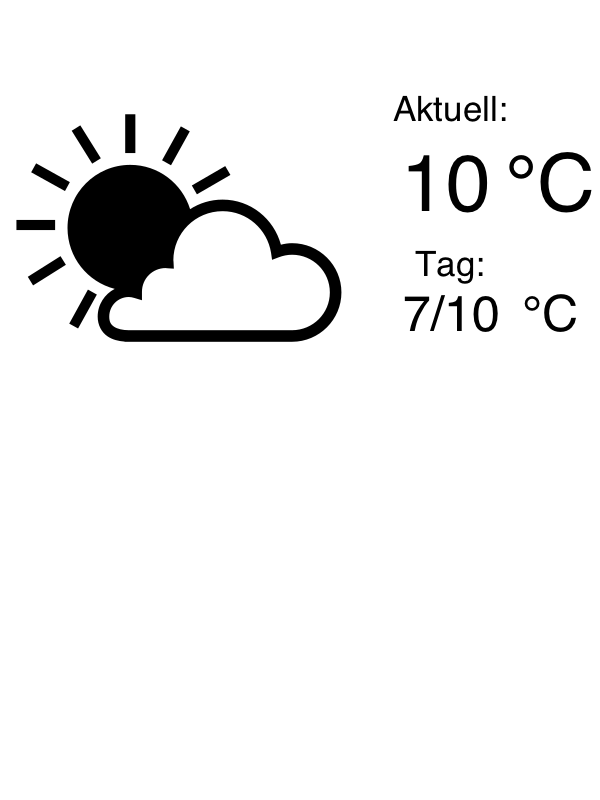
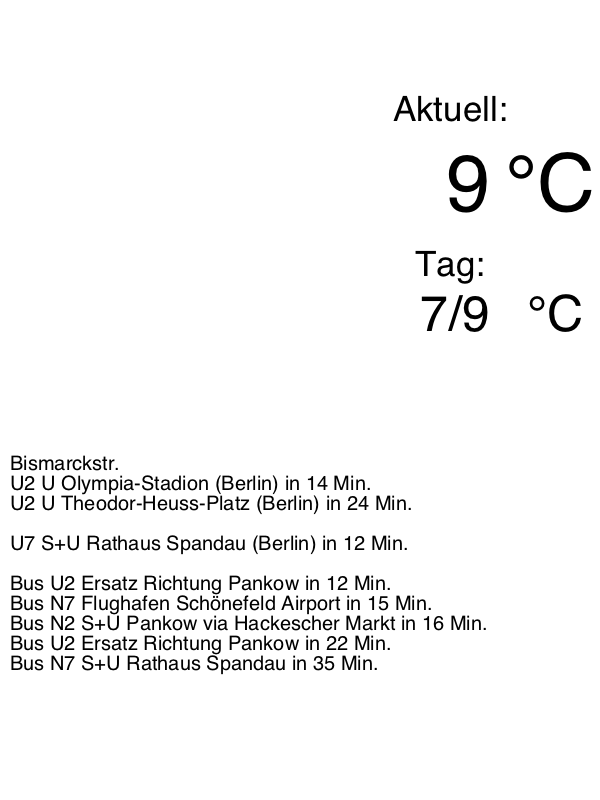
Added Subway departures.

diff --git a/fetch_weather.py b/fetch_weather.py
@@ -16,6 +16,45 @@ def getJSON(url):
     req = urlopen(url).read()
     return json.loads(req)
 
+class Departure:
+    def __init__(self, line, end, remaining):
+        self.line = line
+        self.end = end
+        self.remaining = remaining
+    def str(self):
+        return self.line + " " + self.end + " in " + str(self.remaining / 60) + " Min."
+
+def getDepartures(departures, line, end, min_time, max_time, max_list_length):
+    dep_list = []
+    for item in departures:
+        if len(dep_list) < max_list_length:
+            if (line == item.line) and (item.end in end) and (min_time <= (item.remaining / 60)) and ((item.remaining / 60) <= max_time):
+                dep_list.append(item)
+    return dep_list  
+
+def getDeparturesExcludedByLine(departures, lines, min_time, max_time, max_list_length):
+    dep_list = []
+    for item in departures:
+        if len(dep_list) < max_list_length:
+            if (item.line not in lines) and (min_time <= (item.remaining / 60)) and ((item.remaining / 60) <= max_time):
+                dep_list.append(item)
+    return dep_list 
+
+def getTable(departures):
+    table = ""
+    for item in departures:
+        table += "<tspan x=\"10\" dy=\"1em\">" + item.str() + "</tspan>\n"
+    return table
+
+def buildDepartureTable(departures, name):
+    table = "<tspan x=\"10\" dy=\"1em\">" + name + "</tspan>\n"
+    for item in departures:
+        if len(item) > 0:
+            table += getTable(item)
+            table += "<tspan x=\"10\" dy=\"1em\"> </tspan>\n"
+    return table
+
+# using the openweathermap api
 city_id = "2950159"; #Berlin
 current_api_url = "http://api.openweathermap.org/data/2.5/weather?id=" + city_id;
 forecast_api_url = "http://api.openweathermap.org/data/2.5/forecast/daily?id=" + city_id;
@@ -23,20 +62,59 @@ forecast_api_url = "http://api.openweathermap.org/data/2.5/forecast/daily?id=" +
 current_weather = getJSON(current_api_url)
 
 forecast_weather = getJSON(forecast_api_url)['list'][0]
-print('current:\n')
-pprint(current_weather)
-print('forecast\n')
-pprint(forecast_weather)
+# print('current:\n')
+# pprint(current_weather)
+# print('forecast\n')
+# pprint(forecast_weather)
 
 current_temp = int(round(KelvToCels(current_weather['main']['temp']), 0))
 max_temp = int(round(KelvToCels(forecast_weather['temp']['max']), 0))
 min_temp = int(round(KelvToCels(forecast_weather['temp']['min']), 0))
 icon = forecast_weather['weather'][0]['icon']
 
+#using the BVG grabber api
+station_sub_id = "U%20Bismarckstr.%20(Berlin)"
+traffic_sub_api_url = "https://bvg-grabber-api.herokuapp.com/actual?station=" + station_sub_id
+
+traffic_sub = getJSON(traffic_sub_api_url)
+
+# print("Sub Traffic:\n")
+# pprint(traffic_sub)
+
+sub_departures = []
+
+for item in traffic_sub[0][1]:
+    sub_departures.append(Departure(item['line'], item['end'], item['remaining']))
+
+u7_rudow_departures = getDepartures(sub_departures, "U7", "U Rudow (Berlin)", 5, 60, 5)
+u7_rath_spandau_departures = getDepartures(sub_departures, "U7", "S+U Rathaus Spandau (Berlin)", 5, 60, 5)
+
+u2_pankow_departures = getDepartures(sub_departures, "U2", "U Pankow (Berlin)", 5, 60, 5)
+u2_ruhleben_departures = getDepartures(sub_departures, "U2", ["U Ruhleben(Berlin)", "U Olympia-Stadion (Berlin)", "U Theodor-Heuss-Platz (Berlin)"], 5, 60, 5)
+
+bus_bismarck_departures = getDeparturesExcludedByLine(sub_departures, ["U2", "U7"], 5, 60, 5)
+
+print(getTable(u7_rath_spandau_departures))
+
+station_bus_id = "B%20Haubachstr.%20(Berlin)"
+traffic_bus_api_url = "https://bvg-grabber-api.herokuapp.com/actual?station=" + station_bus_id
+
+traffic_bus = getJSON(traffic_bus_api_url)
+
+# print("Bus Traffic:\n")
+# pprint(traffic_bus)
+
+# for item in traffic_bus[0][1]:
+    # print(item['line'] + " " + item['end'] + " in " + str(item['remaining'] / 60) + " Min.")
+
+
+
 output = codecs.open('weather-script-preprocess.svg', 'r', encoding='utf-8').read()
 output = output.replace('ICON_ONE', icon)
 output = output.replace('CURRENT', str(current_temp))
 output = output.replace('DAY', str(min_temp) + "/" + str(max_temp))
+
+output = output.replace('U2_RUHLEBEN', buildDepartureTable([u2_pankow_departures, u2_ruhleben_departures, u7_rudow_departures, u7_rath_spandau_departures, bus_bismarck_departures], 'Bismarckstr.'))
 
 codecs.open('weather-script-output.svg', 'w', encoding='utf-8').write(output)
 
